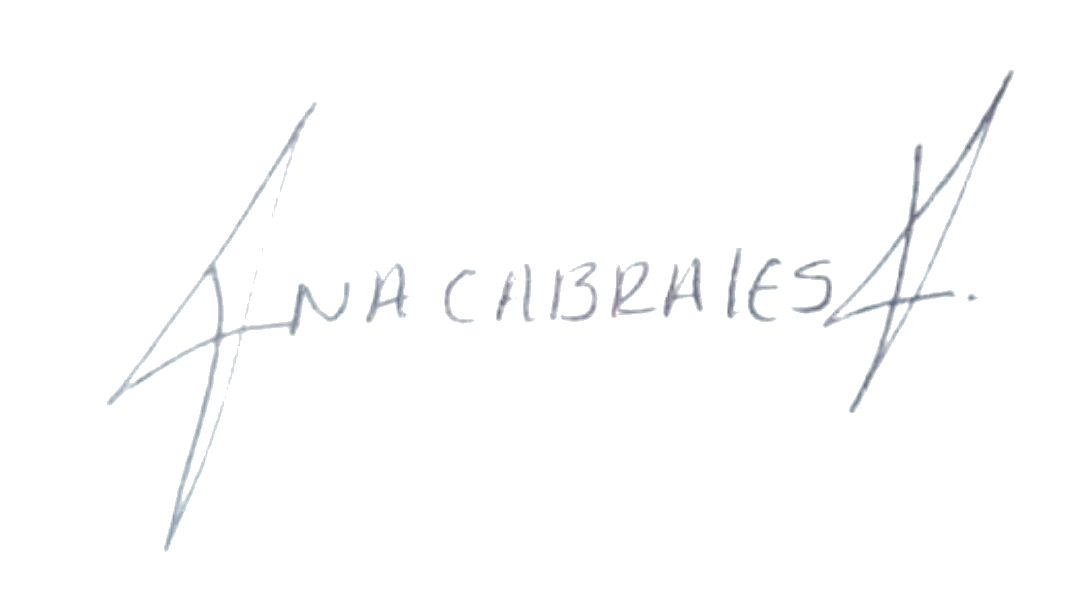
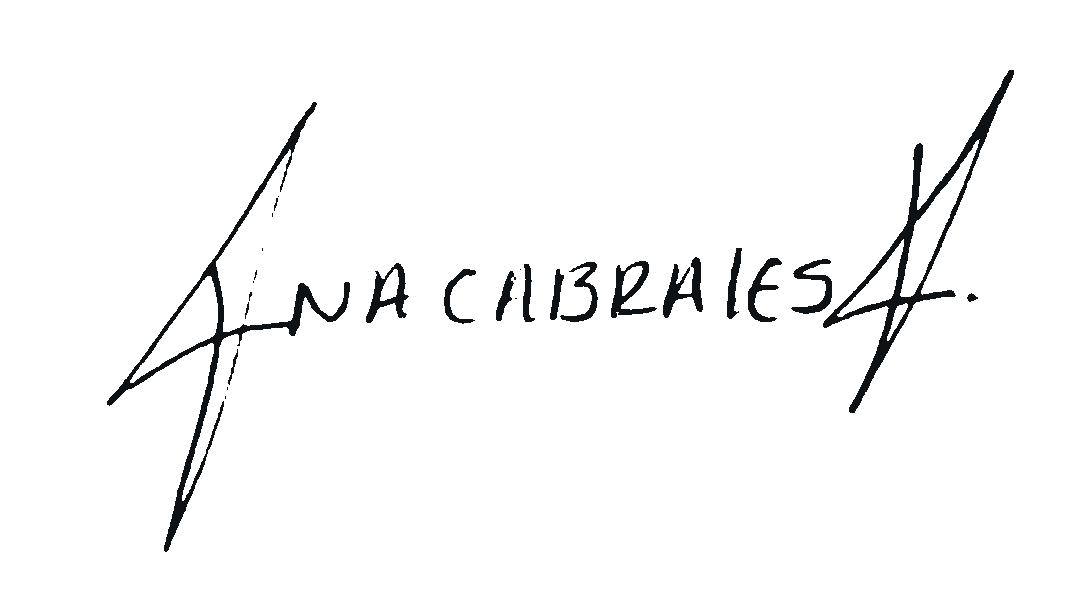
Cronologia: nombre firmante en mayuscula y firma mas oscura

diff --git a/src/pages/agropecuaria/cronologiaDoc.ts b/src/pages/agropecuaria/cronologiaDoc.ts
@@ -45,7 +45,7 @@ export function documentoCronologia(
     ''
   const rel = archivoFirma(nombre)
   const firma = rel ? `${origin}${rel}` : ''
-  const nombreSeguro = nombre.replace(/[&<>]/g, (c) =>
+  const nombreSeguro = nombre.toUpperCase().replace(/[&<>]/g, (c) =>
     c === '&' ? '&amp;' : c === '<' ? '&lt;' : '&gt;',
   )
   return (
